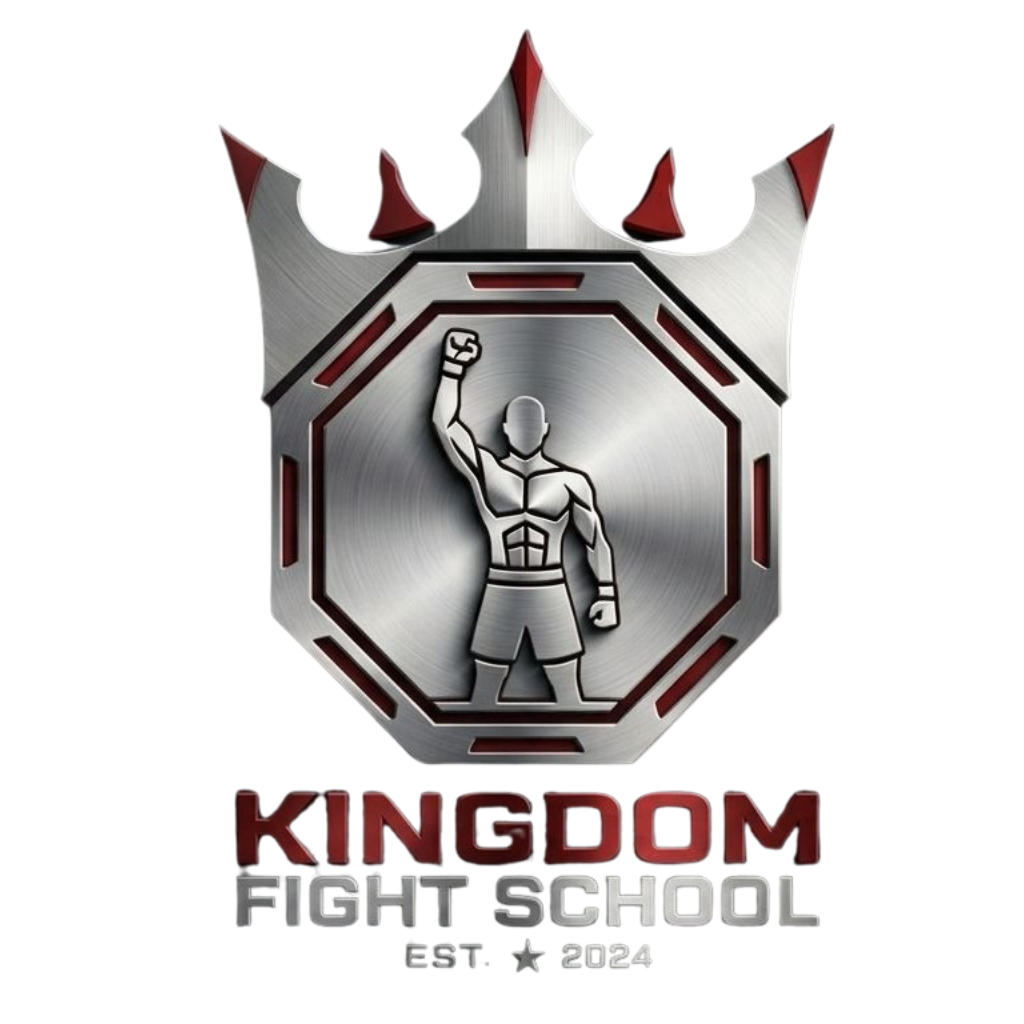
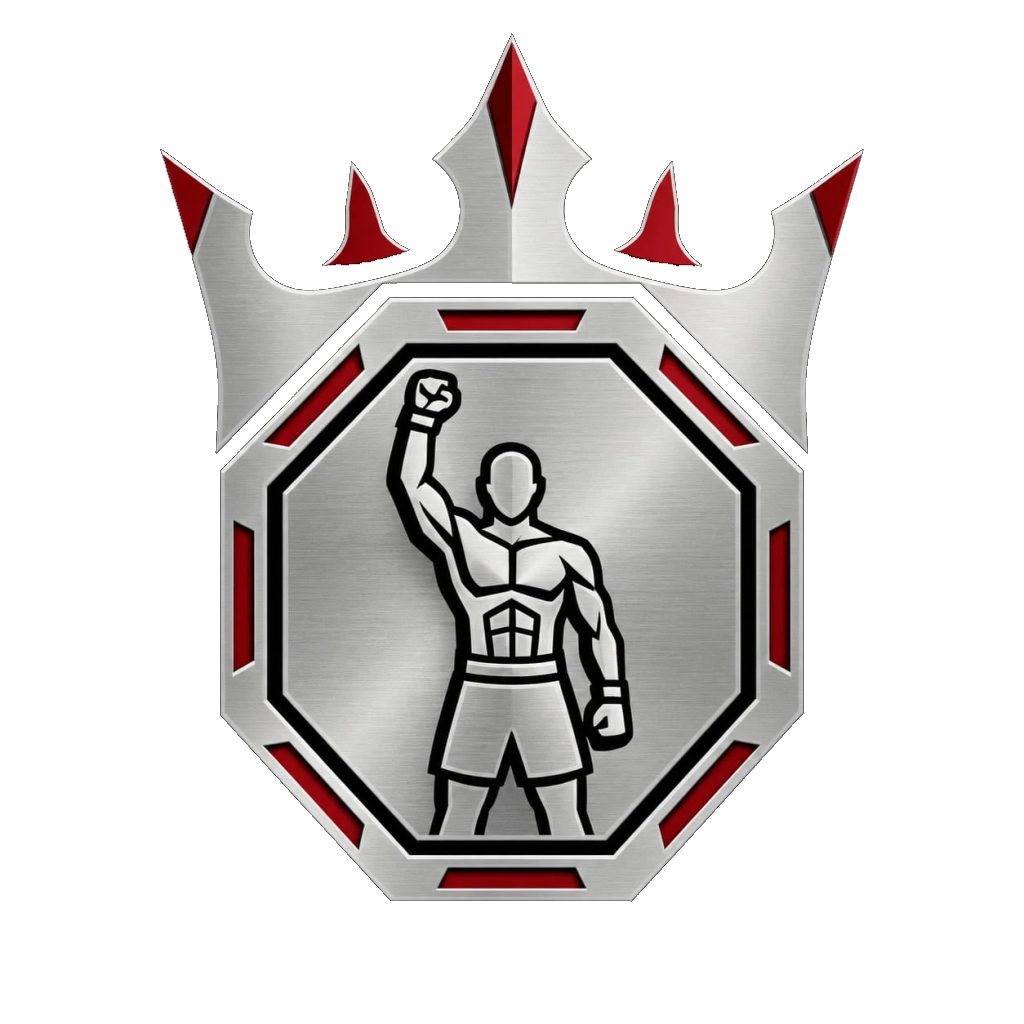
feat(marca): novo emblema no arranque da app, ícones e cabeçalho
- kfs-app-icon.png = emblema novo (fundo exterior removido; contornos interiores intactos)
- Ícones PWA, apple-touch e favicon regenerados (npm run generate:pwa-icons)
- Emblema pequeno à esquerda do título no cabeçalho (aluno, coach e admin)

diff --git a/components/ResponsiveShell.tsx b/components/ResponsiveShell.tsx
@@ -1,6 +1,7 @@
 "use client";
 
 import { useState, useEffect, useLayoutEffect, useRef, useCallback, Suspense } from "react";
+import { BRAND_EMBLEM_HEADER, BRAND_EMBLEM_HEADER_HEIGHT, BRAND_EMBLEM_HEADER_WIDTH } from "@/lib/brand";
 import Link from "next/link";
 import { usePathname } from "next/navigation";
 import { X } from "lucide-react";
@@ -287,6 +288,15 @@ export function ResponsiveShell({
                 </svg>
               </button>
             ) : null}
+            {/* eslint-disable-next-line @next/next/no-img-element -- emblema pequeno e estático */}
+            <img
+              src={BRAND_EMBLEM_HEADER}
+              alt=""
+              aria-hidden
+              width={BRAND_EMBLEM_HEADER_WIDTH}
+              height={BRAND_EMBLEM_HEADER_HEIGHT}
+              style={{ height: "clamp(34px, 9vw, 40px)", width: "auto", flexShrink: 0, display: "block" }}
+            />
             <h1
               style={{
                 margin: 0,

diff --git a/lib/brand.ts b/lib/brand.ts
@@ -28,3 +28,8 @@ export const BRAND_LOGO_HEIGHT = 630;
 
 export const BRAND_EMBLEM_WIDTH = 1024;
 export const BRAND_EMBLEM_HEIGHT = 1024;
+
+/** Emblema (coroa + octógono) recortado, para o cabeçalho da app (130×160, fundo transparente). */
+export const BRAND_EMBLEM_HEADER = "/brand/kfs-emblem-header.png";
+export const BRAND_EMBLEM_HEADER_WIDTH = 130;
+export const BRAND_EMBLEM_HEADER_HEIGHT = 160;
